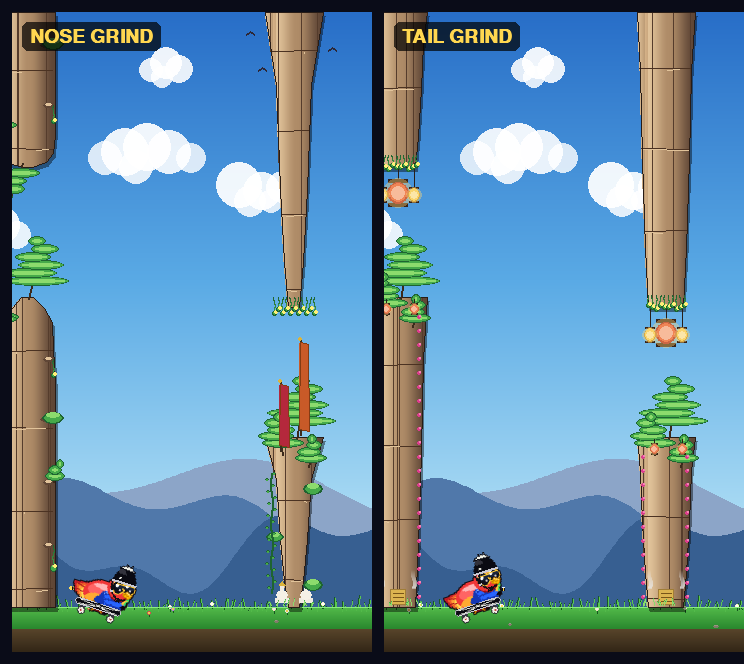
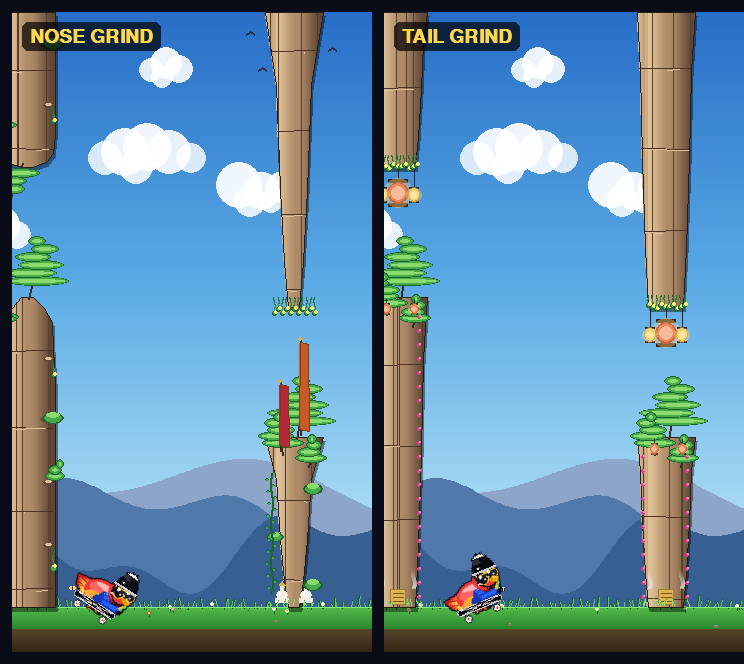
SKATEBOARD GRIND: bigger tilt + per-wheel spark spray
- Tilt bumped 18 -> 28 degrees so the grind reads as a distinct
  posture, not a subtle slant.
- New _maybe_grind_sparks helper sprays bright ember/gold/white
  particles BACKWARD (against direction of motion) with a small
  upward kick, at the actual contact wheel:
    nose grind -> sparks at bird.x + 14 (front wheel)
    tail grind -> sparks at bird.x - 14 (back wheel)
- Spawned alongside the existing dust call in every skateboard
  snap site (ground, ramp surface, pillar-top via both the
  proactive snap and _skateboard_handle_pipe).
- Sparks settle fast (lifespan 0.18-0.38 s, gravity 500) so the
  effect tracks Pip rather than lingering in the world.

Tests pass 26/26.

Changed region(s): [[0.5874, 0.8133, 0.6801, 0.9337], [0.0927, 0.8434, 0.1855, 0.9639]]

diff --git a/game/world.py b/game/world.py
@@ -1009,6 +1009,7 @@ class World:
                         self.bird.vy = 0.0
                         by = self.bird.y
                         self._maybe_skateboard_dust(bx, surface_y)
+                        self._maybe_grind_sparks(surface_y)
                         self._sliding_this_frame = True
                     break  # only one ramp under Pip at a time
         if by + br > GROUND_Y:
@@ -1016,6 +1017,7 @@ class World:
                 # Slide along the ground. Snap, zero vy, dust puff.
                 self.bird.y = GROUND_Y - br
                 self.bird.vy = 0.0
+                self._maybe_grind_sparks(GROUND_Y)
                 by = self.bird.y
                 self._maybe_skateboard_dust(self.bird.x, GROUND_Y)
                 self._sliding_this_frame = True
@@ -1054,6 +1056,7 @@ class World:
                     self.bird.vy = 0.0
                     by = self.bird.y
                     self._maybe_skateboard_dust(bx, gap_bot)
+                    self._maybe_grind_sparks(gap_bot)
                     self._sliding_this_frame = True
                     break
         # Pip's hitboxes: body (existing) + parcel below him. The parcel
@@ -1139,6 +1142,7 @@ class World:
             self.bird.y = gap_bot - br
             self.bird.vy = 0.0
             self._maybe_skateboard_dust(bx, gap_bot)
+            self._maybe_grind_sparks(gap_bot)
             self._sliding_this_frame = True
             return True
         # Approach from below onto the upper pillar's underside.
@@ -1180,6 +1184,42 @@ class World:
                     random.randint(2, 3),
                     random.choice(((220, 215, 200), (200, 195, 180), WHITE)),
                     gravity=200,
+                ))
+
+    def _maybe_grind_sparks(self, y_ground):
+        """Bright spark spray at the grinding wheel — front wheel
+        for a nose grind, back wheel for a tail grind. Sprays
+        backward (opposite Pip's motion) with a little upward
+        kick, fast settle. Brighter + denser than the regular
+        slide-dust so the grind reads as metal-on-concrete."""
+        if self.bird.grind_type is None:
+            return
+        # Wheel offset from bird.x — board's wheel centres sit at
+        # roughly ±14 px under Pip's feet at game scale.
+        if self.bird.grind_type == "nose":
+            wheel_dx = +14
+        else:  # "tail"
+            wheel_dx = -14
+        wx = self.bird.x + wheel_dx
+        if random.random() < 0.85:
+            for _ in range(random.randint(3, 5)):
+                # Sparks fan backward (against direction of motion)
+                # with a slight upward kick — π ± 0.5 rad.
+                ang = random.uniform(math.pi * 0.7, math.pi * 1.3)
+                spd = random.uniform(100, 230)
+                colour = random.choice((PARTICLE_ORNG,
+                                         PARTICLE_GOLD,
+                                         PARTICLE_WHT,
+                                         (255, 220, 130)))
+                self.particles.append(Particle(
+                    wx + random.uniform(-2, 2),
+                    y_ground - 2,
+                    math.cos(ang) * spd,
+                    math.sin(ang) * spd - random.uniform(20, 60),
+                    random.uniform(0.18, 0.38),
+                    random.randint(1, 3),
+                    colour,
+                    gravity=500,
                 ))
 
     # Pip's centre-y when the cart is locked on the rail — chosen so the

diff --git a/game/entities.py b/game/entities.py
@@ -811,9 +811,9 @@ class Bird:
         # In side-view going right, "nose" is the right end of the
         # board and "tail" is the left end.
         if self.grind_type == "nose":
-            base += -18.0  # nose down → tail in the air
+            base += -28.0  # nose down → tail in the air
         elif self.grind_type == "tail":
-            base += 18.0   # nose up → tail planted
+            base += 28.0   # nose up → tail planted
         # During a backflip, ride a full 360° rotation on top of the base
         # tilt. pygame's rotate is modulo-360 internally so values beyond
         # the normal clamp are fine.
